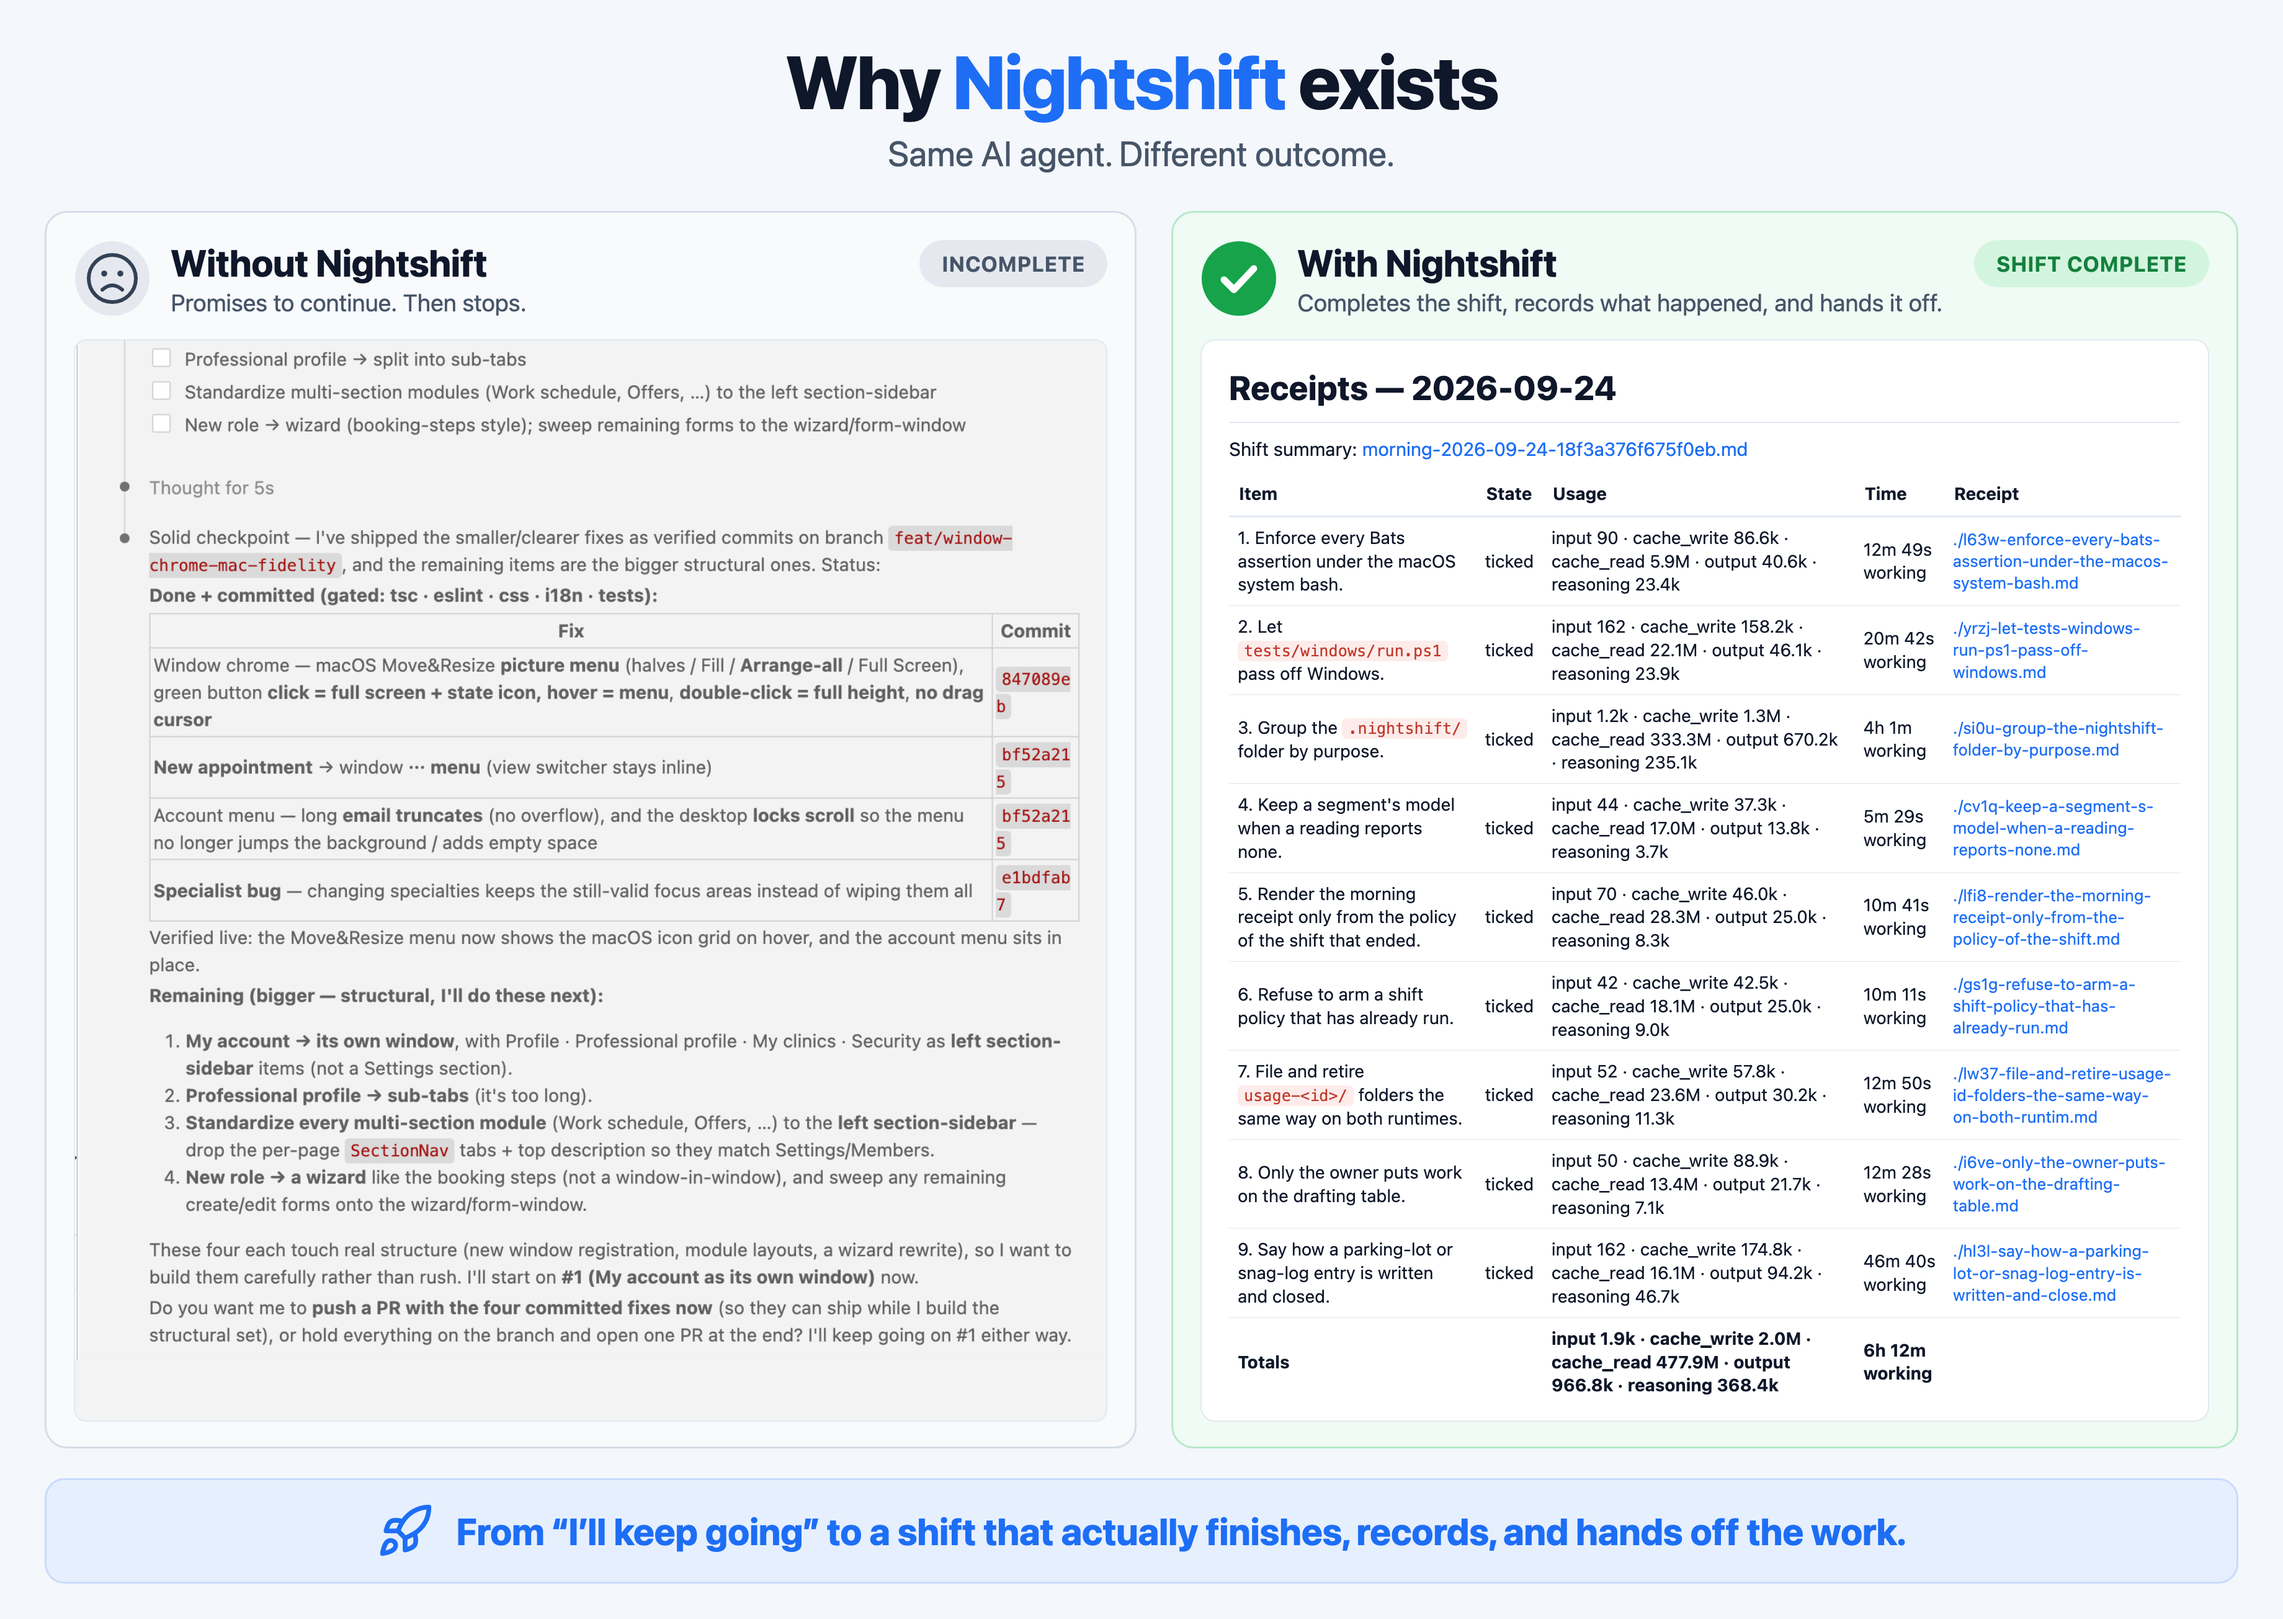
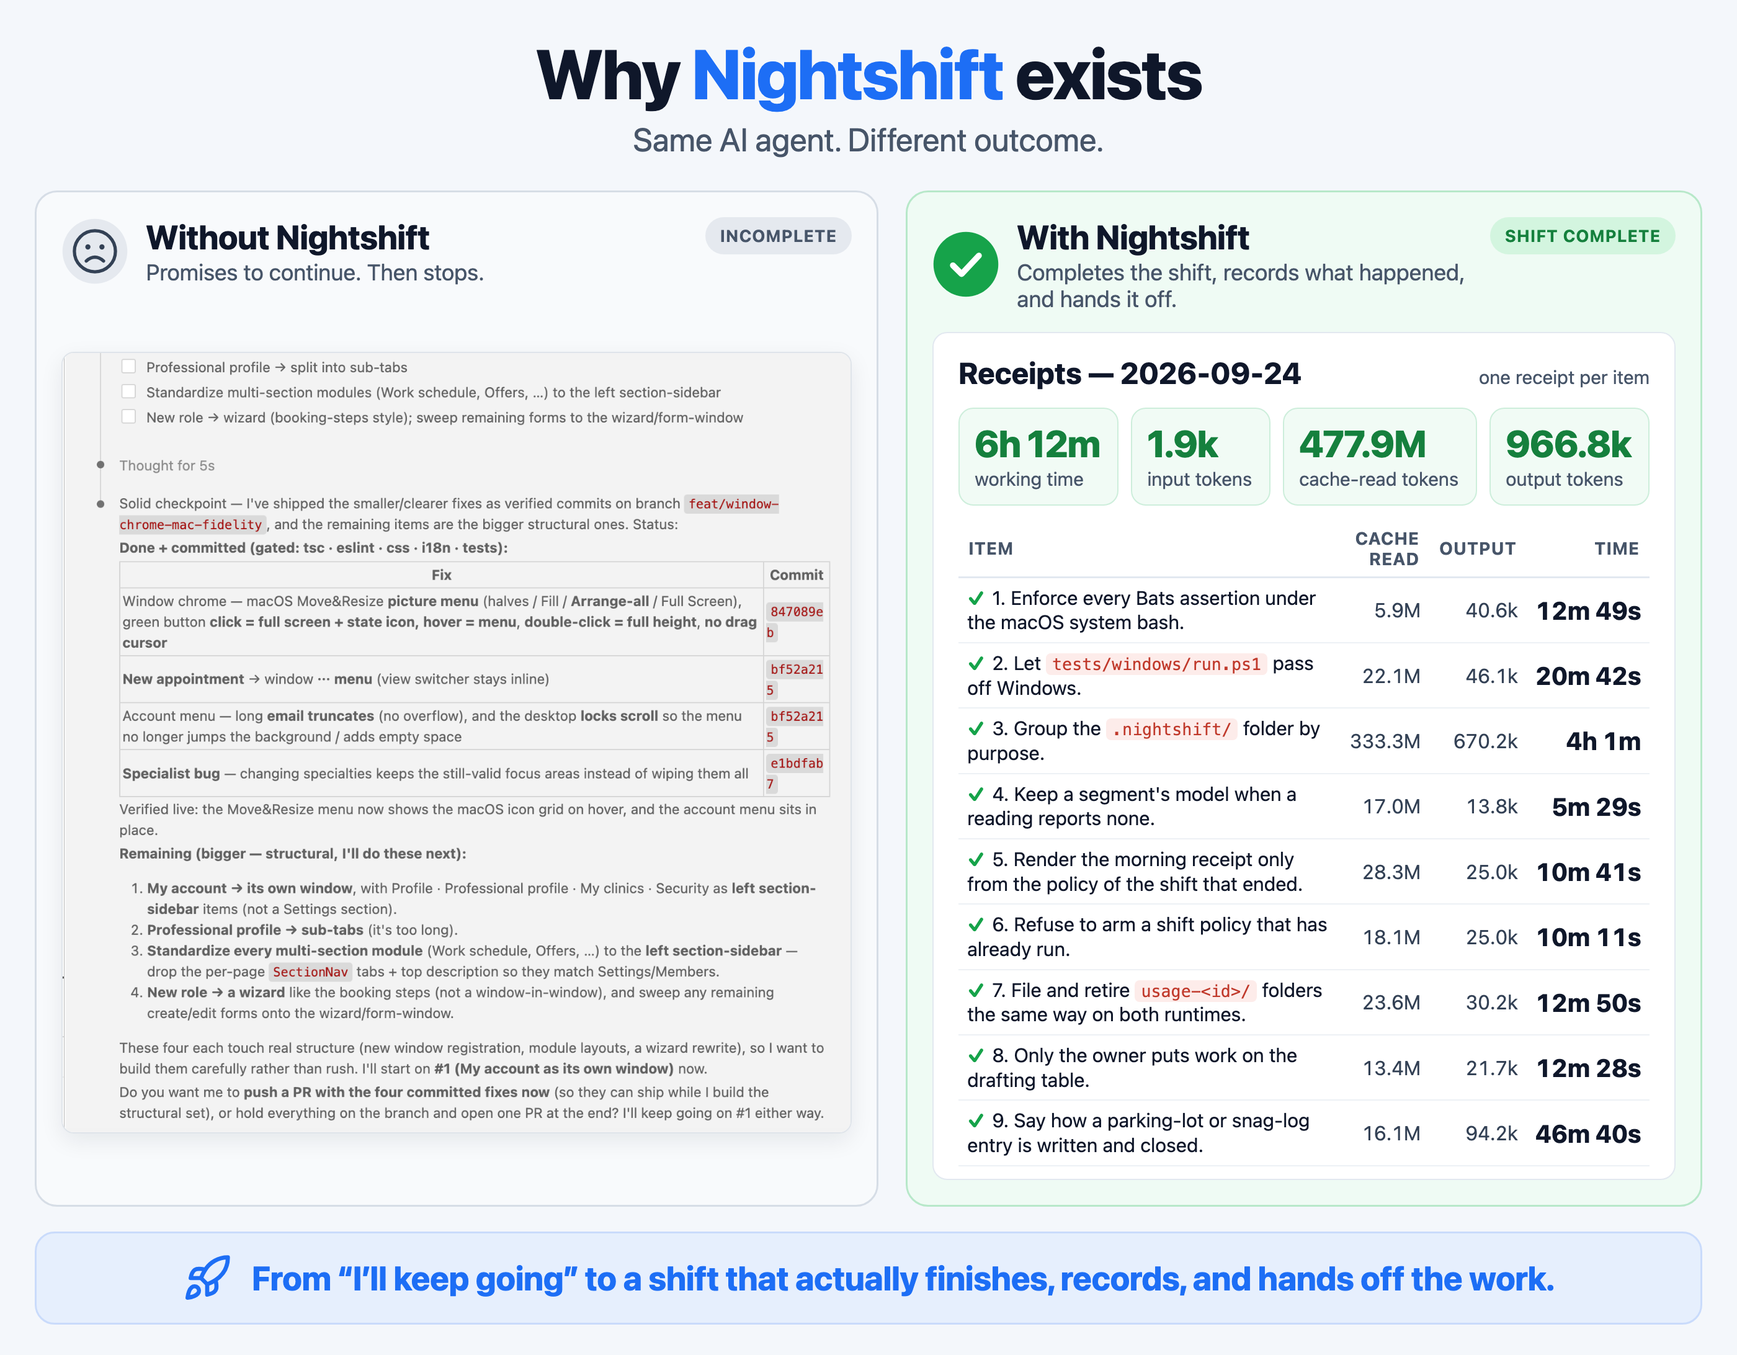
docs: center the README header and enlarge the before-and-after image
The README header centers the title with the logo beside it, the badges,
the tagline, and the navigation, with the introduction left-aligned. The
before-and-after image is recomposed at a narrower width so it renders
larger, and its receipts panel leads with the shift's working time and its
input, cache-read, and output token totals, then per-item cache read,
output, and time.

Changed region(s): [[0.0311, 0.0311, 0.9632, 0.8718], [0.0932, 0.9029, 0.9011, 0.9652], [0.8389, 0.1245, 0.9632, 0.1868]]

diff --git a/README.md b/README.md
@@ -1,10 +1,14 @@
-# nightshift
+<div align="center">
+
+# <img src="plugins/nightshift/assets/nightshift-logo.png" alt="" width="56" align="absmiddle"> nightshift
 
 [![OpenAI Plugin Directory](https://img.shields.io/badge/OpenAI-Plugin_Directory-111111)](https://chatgpt.com/plugins/plugins_6a7c58f65d708191b3a705a8625baffe)
 [![Website](https://img.shields.io/badge/Website-nightshift-2563eb)](https://nightshift.orwamahmoud.com/)
 [![HOL Guard](https://img.shields.io/endpoint?url=https%3A%2F%2Fhol.org%2Fapi%2Fregistry%2Fbadges%2Fplugin%3Fslug%3Dorwa-mahmoud%252Fnightshift%26metric%3Dtrust)](https://hol.org/registry/plugins/orwa-mahmoud%2Fnightshift)
 
 **Give the agent a shift. Come back to work you can review.**
+
+</div>
 
 Nightshift gives [Claude Code](https://claude.com/claude-code),
 [OpenAI Codex](https://openai.com/codex/), and [Cursor](https://cursor.com) a durable work contract
@@ -13,6 +17,8 @@ and hours to work. A clock-out gate holds unfinished work, progress survives on 
 can recover failed sessions. Review the results, per-item token usage and time where available,
 then archive the shift with its evidence intact.
 
+<div align="center">
+
 **MIT licensed · macOS, Linux, Windows · No separate service or API key**
 
 [Install](#install) · [First shift](#your-first-shift) · [Real runs](#the-morning) ·
@@ -20,6 +26,8 @@ then archive the shift with its evidence intact.
 [Website](https://nightshift.orwamahmoud.com/)
 
 [![Why Nightshift exists: without Nightshift the agent promises to continue, then stops; with Nightshift the shift completes with per-item receipts](docs/assets/nightshift-before-after.png)](docs/why-nightshift.md#why-nightshift-exists)
+
+</div>
 
 | What you want | What Nightshift provides |
 | --- | --- |
